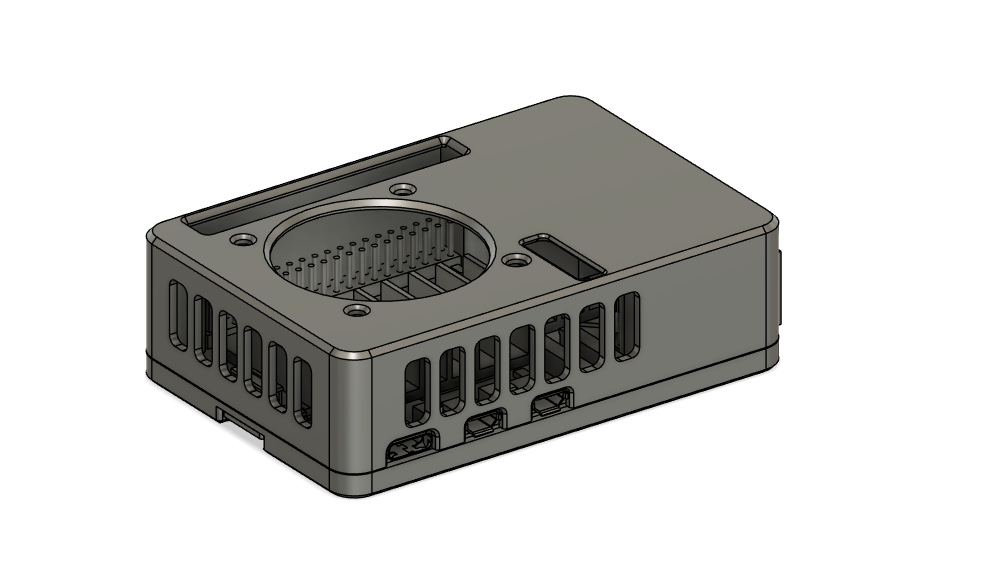
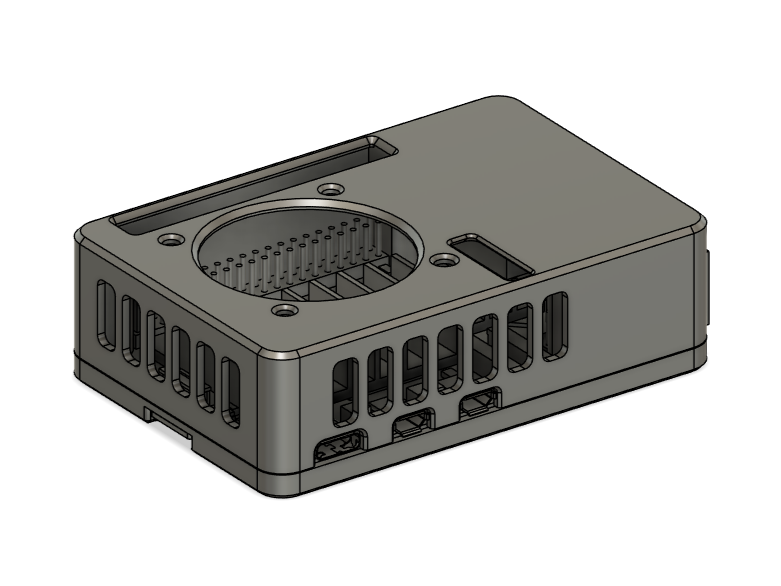
a

Changed region(s): [[0.0922, 0.1536, 0.9219, 0.8601]]

diff --git a/script.js b/script.js
@@ -25,7 +25,7 @@ const projects = {
         },
         {
             id:          'cdp-2026',
-            title:       'Ball-Redirecting Goal Robot',
+            title:       'Ball-Redirecting Goal Robot [WIP]',
             category:    'Robotics & Embedded',
             image:       'Media/CDP 2026/Main Image - current state.jpg',
             description: 'IEEE CDP 2026 — A stepper motor rotates a panel to redirect a tennis ball into the correct goal. Webcam + Raspberry Pi 4B for real-time trajectory calculation. Mechanical system complete; electronics WIP.',
@@ -44,7 +44,7 @@ const projects = {
         {
             id:          'edp-2025',
             title:       'Precision Catapult — 2nd Place',
-            category:    'Robotics & Embedded',
+            category:    '3D Design & Fabrication',
             image:       'Media/EDP 2025/Final Image.jpg',
             description: 'IEEE Student Day UAE — Engineering Design Project 2025. No electronics allowed. Adjustable arm stop for range control, dual-profile ball holder for two projectile sizes. Wood frame + 3D-printed components designed in Fusion 360.',
             tags:        ['EDP 2025', 'Fusion 360', '3D Print', 'Mechanical'],
@@ -92,7 +92,7 @@ const projects = {
         },
         {
             id:          'cdp-2026',
-            title:       'Ball-Redirecting Goal Robot',
+            title:       'Ball-Redirecting Goal Robot [WIP]',
             category:    'Robotics & Embedded',
             image:       'Media/CDP 2026/Main Image - current state.jpg',
             description: 'IEEE CDP 2026 — A stepper motor rotates a deflector panel to redirect a tennis ball into the correct goal. Webcam + Raspberry Pi 4B for real-time trajectory calculation. Mechanical system complete; electronics WIP.',
@@ -107,15 +107,6 @@ const projects = {
             description: 'IEEE CDP 2025 internal competition. Custom 5-LDR analog line sensor array with PID, Raspberry Pi 4B, servo-driven parallel gripper, 3D-printed camera mount, and a custom RPi enclosure with aluminium heatsink.',
             tags:        ['Raspberry Pi', 'OpenCV', 'PID Control', 'Custom Sensors'],
             link:        'projects/cdp-2025.html'
-        },
-        {
-            id:          'edp-2025',
-            title:       'Precision Catapult — 2nd Place',
-            category:    'Robotics & Embedded',
-            image:       'Media/EDP 2025/Final Image.jpg',
-            description: 'IEEE Student Day UAE — EDP 2025. No-electronics mechanical catapult. Adjustable arm stop for range control, dual-profile ball holder for two projectile sizes. Designed in Fusion 360, printed and assembled.',
-            tags:        ['EDP 2025', '2nd Place', 'Fusion 360', '3D Print'],
-            link:        'projects/edp-2025.html'
         },
         {
             id:          'dewa-pipeline',
@@ -147,6 +138,15 @@ const projects = {
             description: 'Built from salvaged parts on a community CoreXY frame design. Several mechanical components re-designed from scratch to match specific Components.',
             tags:        ['3D Printing', 'Fusion 360', 'Mechanical Design', 'Salvaged Parts'],
             link:        'projects/corexy.html'
+        },
+        {
+            id:          'edp-2025',
+            title:       'Precision Catapult — 2nd Place',
+            category:    '3D Design & Fabrication',
+            image:       'Media/EDP 2025/Final Image.jpg',
+            description: 'IEEE Student Day UAE — EDP 2025. No-electronics mechanical catapult. Adjustable arm stop for range control, dual-profile ball holder for two projectile sizes. Designed in Fusion 360, printed and assembled.',
+            tags:        ['EDP 2025', '2nd Place', 'Fusion 360', '3D Print'],
+            link:        'projects/edp-2025.html'
         },
         {
             id:          'bt-speaker',
@@ -239,6 +239,7 @@ function renderProjects(containerId, projectsArray) {
                 <div class="project-content">
                     <div class="project-category">${project.category}</div>
                     <h3 class="project-title">${project.title}</h3>
+                    <p class="project-description">${project.description}</p>
                     ${tagsHtml}
                     <span class="project-link">VIEW PROJECT →</span>
                 </div>

diff --git a/projects/cdp-2025.html b/projects/cdp-2025.html
@@ -38,7 +38,7 @@
             </div>
             <div class="detail-meta-item">
                 <span class="detail-meta-label">MCU</span>
-                <span class="detail-meta-value">Raspberry Pi 4B</span>
+                <span class="detail-meta-value">Raspberry Pi 5</span>
             </div>
             <div class="detail-meta-item">
                 <span class="detail-meta-label">SENSOR</span>
@@ -79,7 +79,7 @@
             <div class="spec-grid">
                 <div class="spec-item">
                     <span class="spec-label">Line Sensor Array</span>
-                    <span class="spec-value">Five LDRs on a custom 3D-printed frame. Analog readings fed into a PID loop that drives differential wheel speed for smooth line tracking.</span>
+                    <span class="spec-value">Five LDRs WITH LEDS for analog readings fed into a PID loop that drives differential wheel speed for smooth line tracking.</span>
                 </div>
                 <div class="spec-item">
                     <span class="spec-label">Parallel Gripper</span>
@@ -91,7 +91,7 @@
                 </div>
                 <div class="spec-item">
                     <span class="spec-label">RPi Enclosure</span>
-                    <span class="spec-value">Custom Raspberry Pi 4B case with a machined aluminium heatsink and 40mm fan for sustained operation without thermal throttling.</span>
+                    <span class="spec-value">Custom Raspberry Pi 5 case with a custom cut aluminium heatsink and 40mm fan, there was a considerable improvement in the thermal performance.</span>
                 </div>
             </div>
 
@@ -103,15 +103,16 @@
                 </div>
                 <div class="img-cell img-cell-lg">
                     <img src="../Media/CDP 2025/Line Following ldr Array.jpg" alt="LDR array closeup">
-                    <div class="img-cell-caption">LDR array — sensor board detail</div>
+                    <div class="img-cell-caption">LDR array — sensor base board</div>
                 </div>
             </div>
 
             <!-- Gripper -->
             <div class="img-grid img-grid-2">
-                <div class="img-cell img-cell-tall">
-                    <img src="../Media/CDP 2025/Servo gripper closeup.jpg" alt="Gripper closeup">
-                    <div class="img-cell-caption">Servo gripper — closeup</div>
+                
+                <div class="img-cell img-cell-lg">
+                    <img src="../Media/CDP 2025/Pi case.png" alt="RPi case CAD">
+                    <div class="img-cell-caption">Custom RPi enclosure — Cad model</div>
                 </div>
                 <div class="img-cell img-cell-lg">
                     <img src="../Media/CDP 2025/Gripper (1).png" alt="Gripper CAD">
@@ -121,7 +122,7 @@
 
             <!-- Camera + RPi -->
             <div class="img-grid img-grid-2">
-                <div class="img-cell img-cell-lg">
+                <div class="img-cell img-cell-tall">
                     <img src="../Media/CDP 2025/camera mount stand .png" alt="Camera mount CAD">
                     <div class="img-cell-caption">Camera mount stand — Fusion 360</div>
                 </div>
@@ -134,11 +135,11 @@
             <div class="img-grid img-grid-2">
                 <div class="img-cell img-cell-tall">
                     <img src="../Media/CDP 2025/Rpi Custom heat sink.jpg" alt="Custom heatsink on RPi">
-                    <div class="img-cell-caption">RPi 4B — custom aluminium heatsink</div>
+                    <div class="img-cell-caption">RPi 5 — custom aluminium heatsink</div>
                 </div>
-                <div class="img-cell img-cell-lg">
-                    <img src="../Media/CDP 2025/Pi case.png" alt="RPi case CAD">
-                    <div class="img-cell-caption">Custom RPi enclosure — Fusion 360</div>
+                <div class="img-cell img-cell-tall">
+                    <img src="../Media/CDP 2025/Servo gripper closeup.jpg" alt="Gripper closeup">
+                    <div class="img-cell-caption">Servo gripper p</div>
                 </div>
             </div>
         </div>

diff --git a/styles.css b/styles.css
@@ -230,7 +230,7 @@ p {
 
 .mono-tag {
     font-family: var(--mono);
-    font-size: 0.68rem;
+    font-size: 0.85rem;
     letter-spacing: 0.2em;
     color: var(--muted);
     text-transform: uppercase;
@@ -293,7 +293,7 @@ p {
 
 .meta-list { display: flex; flex-direction: column; gap: 0.25rem; }
 .meta-list li {
-    font-size: 0.82rem;
+    font-size: 0.85rem;
     color: var(--text);
     padding-left: 1.1rem;
     position: relative;
@@ -315,7 +315,7 @@ p {
     border: 1px solid var(--border-mid);
     padding: 0.55rem 0.85rem;
     font-family: var(--mono);
-    font-size: 0.62rem;
+    font-size: 0.85rem;
     letter-spacing: 0.14em;
     color: var(--muted);
     text-transform: uppercase;
@@ -443,36 +443,35 @@ main {
     gap: 1.5rem;
 }
 
-/* BENTO — 3-column layout */
+/* BENTO — 4-column layout */
 .projects-bento {
-    grid-template-columns: repeat(3, 1fr);
+    grid-template-columns: repeat(4, 1fr);
     grid-auto-rows: auto;
+    max-width: 1300px;
+    margin-left: auto;
+    margin-right: auto;
 }
 
-/* Card 1: 2 cols wide, 2 rows tall */
+/* Card 1: wide top-left */
 .projects-bento .project-card:nth-child(1) {
     grid-column: span 2;
-    grid-row: span 2;
 }
 
-/* bento card 1: no forced aspect-ratio — image defines height naturally */
-
-/* Card 4: 2 cols wide */
+/* Card 4: wide bottom-right — pinned so cards 5+6 auto-fill the left */
 .projects-bento .project-card:nth-child(4) {
-    grid-column: span 2;
+    grid-column: 3 / span 2;
 }
 
 /* Tablet */
-@media (max-width: 1100px) {
+@media (max-width: 768px) {
     .projects-bento {
         grid-template-columns: repeat(2, 1fr);
     }
     .projects-bento .project-card:nth-child(1) {
         grid-column: span 2;
-        grid-row: span 1;
     }
     .projects-bento .project-card:nth-child(4) {
-        grid-column: span 1;
+        grid-column: span 2;
     }
 }
 
@@ -902,7 +901,7 @@ main {
 
 .hero-img-panel img {
     width: 100%;
-    height: 520px;
+    height: 700px;
     object-fit: cover;
     object-position: center;
     display: block;

diff --git a/projects/robotic-arm.html b/projects/robotic-arm.html
@@ -34,7 +34,7 @@
         <div class="detail-meta">
             <div class="detail-meta-item">
                 <span class="detail-meta-label">STATUS</span>
-                <span class="detail-meta-value">Complete · CV upgrade planned</span>
+                <span class="detail-meta-value">Complete</span>
             </div>
             <div class="detail-meta-item">
                 <span class="detail-meta-label">MCU</span>
